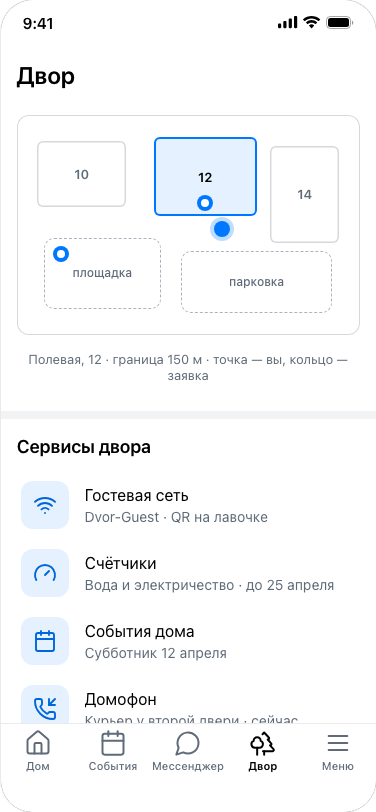
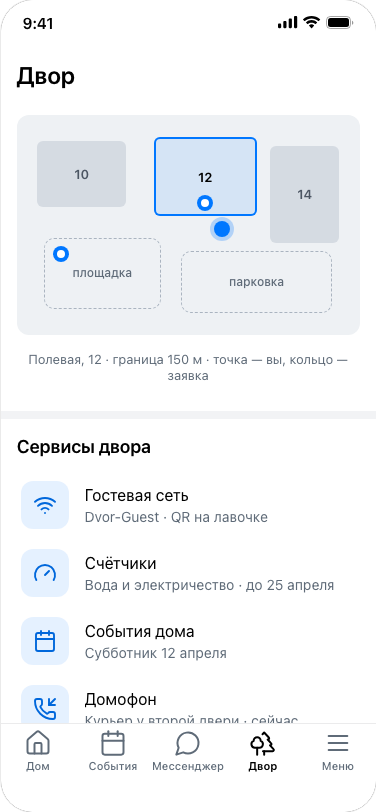
Счётчики профиля и схема двора снова серые — решение владельца, записано в правила

Changed region(s): [[0.0878, 0.1539, 0.3511, 0.2771], [0.7021, 0.1847, 0.9069, 0.3079]]

diff --git a/platform/kernel/base.css b/platform/kernel/base.css
@@ -1271,9 +1271,8 @@ body { margin:0; background:var(--page-bg); color:var(--page-ink); font:400 15px
 .ui:is(.vk-light,.ok-light) .ui-thumb.is-round { border-radius:50%; }
 /* Счётчики в светлой теме: ровные серые плитки, число и подпись по центру */
 .ui:is(.vk-light,.ok-light) .ui-stats { gap:8px; }
-/* Счётчики профиля как в ВК: число и подпись без серой плашки, между ними тонкая линия */
-.ui:is(.vk-light,.ok-light) .ui-stat { display:flex; flex-direction:column; align-items:center; justify-content:center; gap:2px; min-height:56px; padding:6px 8px; border-radius:0; background:none!important; text-align:center; }
-.ui:is(.vk-light,.ok-light) .ui-stat + .ui-stat { box-shadow:inset 1px 0 0 var(--ui-line); }
+/* Счётчики профиля — серые плитки на белом: решение владельца продукта, не дефект gray-in-white */
+.ui:is(.vk-light,.ok-light) .ui-stat { display:flex; flex-direction:column; align-items:center; justify-content:center; gap:2px; min-height:64px; padding:10px 8px; border-radius:12px; background:var(--ui-card-2)!important; text-align:center; }
 .ui:is(.vk-light,.ok-light) .ui-stat > strong { font:600 18px/22px var(--ui-face); }
 .ui:is(.vk-light,.ok-light) .ui-stat > span { font:400 13px/16px var(--ui-face); }
 /* Секция из групп ячеек — это экран настроек: белые группы на сером, без белой подложки */

diff --git a/platform/concepts/dvor/styles.css b/platform/concepts/dvor/styles.css
@@ -4,8 +4,8 @@
    шахматка квартир, карточка гостевой сети и домофон. Фото нет — `.ph`. */
 
 /* Схема двора: корпуса, площадка, парковка и метки заявок */
-.dv-map { position:relative; height:220px; margin:0 16px; border-radius:12px; background:var(--ui-card); box-shadow:inset 0 0 0 1px var(--ui-line); overflow:hidden; }
-.dv-block { position:absolute; display:grid; place-items:center; border-radius:6px; background:var(--ui-card); box-shadow:inset 0 0 0 1.5px var(--ui-line); font:600 13px/16px var(--ui-face); color:var(--ui-text-2); }
+.dv-map { position:relative; height:220px; margin:0 16px; border-radius:12px; background:#eef1f4; overflow:hidden; }
+.dv-block { position:absolute; display:grid; place-items:center; border-radius:6px; background:#d5dbe2; font:600 13px/16px var(--ui-face); color:#4c5663; }
 .dv-b10 { left:6%; top:12%; width:26%; height:30%; }
 .dv-b12 { left:40%; top:10%; width:30%; height:36%; background:var(--ui-accent-soft); color:var(--ui-text); box-shadow:inset 0 0 0 2px var(--ui-accent); }
 .dv-b14 { left:74%; top:14%; width:20%; height:44%; }

diff --git a/CLAUDE.md b/CLAUDE.md
@@ -123,7 +123,7 @@
 Светлые экраны ВК и ОК — одна белая поверхность: секции разделяет воздух, а не серые полосы, и группа ячеек — обычный белый список, а не вставная карточка на сером. <!-- @history --> Раньше это были белые секции на сером фоне; серые полосы между ними и серый хвост под коротким экраном разваливали композицию. Серое на белом читается как незагрузившаяся картинка или пустое место, и экран выглядит сырым. Поэтому:
 
 - **Любой свой блок — внутри `ui.section`.** Карточка события, плеер, QR-код, положенные прямо в `ui.scroll`, выпадают из сетки отступов секций (`on-gray` в аудите). Исключение — медиа во всю ширину без текста: фото, сетка кадров.
-- **Никаких серых плашек внутри белой секции** (`gray-in-white`). Карточку вещи, сети, предложения собирают строкой `ui.row` или блоком без подложки с отступом 16; вложение в посте — с тонкой обводкой `var(--ui-line)`, а не заливкой.
+- **Никаких серых плашек внутри белой секции** (`gray-in-white`), кроме двух решений владельца: счётчики профиля (`ui.stats`) и схема-карта, нарисованная кодом, остаются серыми плитками на белом. Карточку вещи, сети, предложения собирают строкой `ui.row` или блоком без подложки с отступом 16; вложение в посте — с тонкой обводкой `var(--ui-line)`, а не заливкой.
 - **Вторичная кнопка — акцентная мягкая** (голубая в ВК, оранжевая в ОК), значок строки — на мягком акценте. Это делает ядро; концепт не перекрашивает их в серый. На тёмной поверхности внутри светлой темы (звонок, камера, таймер) концепт задаёт свою полупрозрачную белую.
 - **Нет фото — нет пустого кадра.** Пост без фото — текст и вложение, без `media: 'ph'`. Человек без фото — инициалы (`initial` у истории, аватара, диалога), не `.ph`. Заглушка `.ph` остаётся только там, где кадр — суть экрана: видоискатель, медиатека, альбом.
 - **Воздух:** секция 12 сверху и снизу, между действиями 12, действия отделены от содержимого секции 16. Это задаёт ядро — концепт не ужимает.
